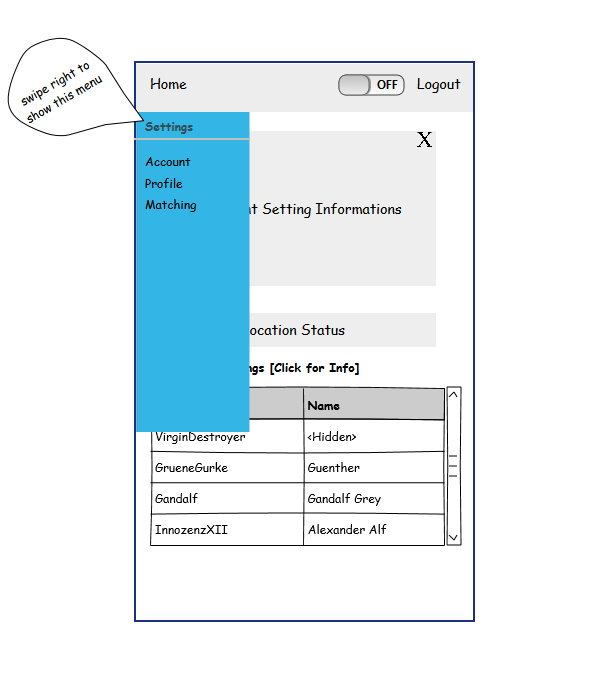
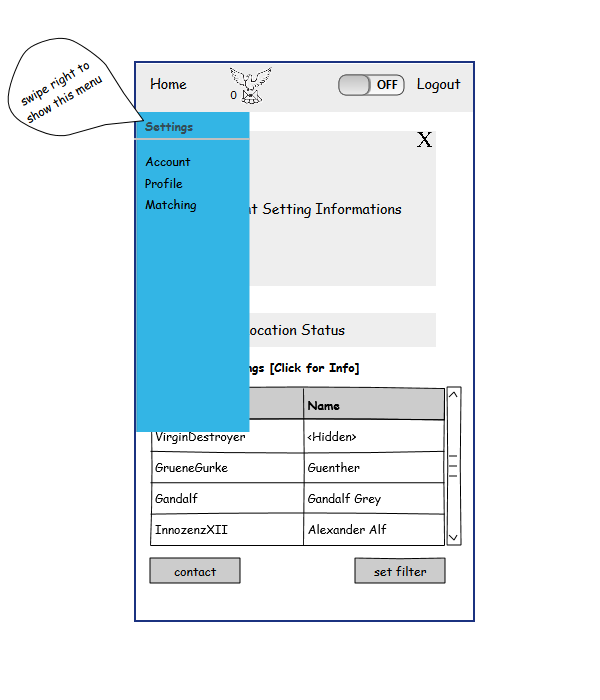
Mockup 1.1 -> 1.2

Changed region(s): [[0.57, 0.78, 0.75, 0.84], [0.24, 0.78, 0.42, 0.84], [0.39, 0.09, 0.45, 0.15]]

diff --git a/Mockup/MasterMoritz_Entwurf/index.html b/Mockup/MasterMoritz_Entwurf/index.html
@@ -1,1 +1,1 @@
-<html xmlns="http://www.w3.org/1999/xhtml"><head><meta http-equiv="Content-Type" content="text/html; charset=UTF-8" /><title>Project Poseidon</title><link rel="stylesheet" href="Resources/SampleStyle.css" /></head><body><h1 id="documentTitle">Freezer</h1><p id="documentMetadata">Version: 1.1</p><div class="Page" id="index_page"><h2>INDEX</h2><div class="ImageContainer"><img width="600" height="700" src="pages%5Cindex.png" usemap="#map_index" /></div><map name="map_index"><area shape="rect" coords="303.5,404.5,394.5,431.25" href="#register_page" title="Go to page 'REGISTER'" /><area shape="rect" coords="203.13333129882812,404.1333312988281,294.8666687011719,430.8666687011719" href="#home_page" title="Go to page 'HOME'" /></map></div><div class="Page" id="register_page"><h2>REGISTER</h2><div class="ImageContainer"><img width="600" height="700" src="pages%5Cregister.png" usemap="#map_register" /></div><map name="map_register"><area shape="rect" coords="150,73,187.39999389648438,94" href="#index_page" title="Go to page 'INDEX'" /><area shape="rect" coords="258.1333312988281,328.1333312988281,349.8666687011719,355.6166687011719" href="#index_page" title="Go to page 'INDEX'" /></map></div><div class="Page" id="home_page"><h2>HOME</h2><div class="ImageContainer"><img width="600" height="700" src="pages%5Chome.png" usemap="#map_home" /></div><map name="map_home"><area shape="rect" coords="354.5,557.5,445.5,583.5" href="#filterpopup_page" title="Go to page 'FilterPopup'" /><area shape="rect" coords="149.5,557.5,240.5,583.5" href="#contactrequest_page" title="Go to page 'ContactRequest'" /><area shape="rect" coords="416.683349609375,73,461.36668395996094,94" href="#index_page" title="Go to page 'INDEX'" /></map></div><div class="Page" id="userpopup_page"><h2>UserPopup</h2><div class="ImageContainer"><img width="600" height="700" src="pages%5Cuserpopup.png" usemap="#map_userpopup" /></div><map name="map_userpopup"><area shape="rect" coords="416.683349609375,73,461.36668395996094,94" href="#index_page" title="Go to page 'INDEX'" /><area shape="rect" coords="150,73,187.39999389648438,94" href="#home_page" title="Go to page 'HOME'" /></map></div><div class="Page" id="filterpopup_page"><h2>FilterPopup</h2><div class="ImageContainer"><img width="600" height="700" src="pages%5Cfilterpopup.png" usemap="#map_filterpopup" /></div><map name="map_filterpopup"><area shape="rect" coords="416.683349609375,73,461.36668395996094,94" href="#index_page" title="Go to page 'INDEX'" /><area shape="rect" coords="150,73,187.39999389648438,94" href="#home_page" title="Go to page 'HOME'" /></map></div><div class="Page" id="settings_page"><h2>SETTINGS</h2><div class="ImageContainer"><img width="600" height="700" src="pages%5Csettings.png" usemap="#map_settings" /></div><map name="map_settings"><area shape="rect" coords="144.64999389648438,195,197.06666564941406,213" href="#settingsmatching_page" title="Go to page 'SETTINGS_Matching'" /><area shape="rect" coords="144.5833282470703,174,183.43333435058594,192" href="#settingsprofile_page" title="Go to page 'SETTINGS_Profile'" /><area shape="rect" coords="144.75,152,191.26666259765625,170" href="#settingsaccount_page" title="Go to page 'SETTINGS_Account'" /><area shape="rect" coords="416.683349609375,73,461.36668395996094,94" href="#index_page" title="Go to page 'INDEX'" /><area shape="rect" coords="150,73,187.39999389648438,94" href="#home_page" title="Go to page 'HOME'" /></map></div><div class="Page" id="settingsaccount_page"><h2>SETTINGS_Account</h2><div class="ImageContainer"><img width="600" height="700" src="pages%5Csettingsaccount.png" usemap="#map_settingsaccount" /></div><map name="map_settingsaccount"><area shape="rect" coords="148.5,275.75,239.5,303.25" href="#settings_page" title="Go to page 'SETTINGS'" /><area shape="rect" coords="416.683349609375,73,461.36668395996094,94" href="#index_page" title="Go to page 'INDEX'" /><area shape="rect" coords="150,73,187.39999389648438,94" href="#home_page" title="Go to page 'HOME'" /></map></div><div class="Page" id="settingsprofile_page"><h2>SETTINGS_Profile</h2><div class="ImageContainer"><img width="600" height="700" src="pages%5Csettingsprofile.png" usemap="#map_settingsprofile" /></div><map name="map_settingsprofile"><area shape="rect" coords="149.5,570.75,240.5,598.25" href="#settings_page" title="Go to page 'SETTINGS'" /><area shape="rect" coords="416.683349609375,73,461.36668395996094,94" href="#index_page" title="Go to page 'INDEX'" /><area shape="rect" coords="150,73,187.39999389648438,94" href="#home_page" title="Go to page 'HOME'" /></map></div><div class="Page" id="settingsmatching_page"><h2>SETTINGS_Matching</h2><div class="ImageContainer"><img width="600" height="700" src="pages%5Csettingsmatching.png" usemap="#map_settingsmatching" /></div><map name="map_settingsmatching"><area shape="rect" coords="145.5,578.75,236.5,606.25" href="#settings_page" title="Go to page 'SETTINGS'" /><area shape="rect" coords="416.683349609375,73,461.36668395996094,94" href="#index_page" title="Go to page 'INDEX'" /><area shape="rect" coords="150,73,187.39999389648438,94" href="#home_page" title="Go to page 'HOME'" /></map></div><div class="Page" id="contactrequest_page"><h2>ContactRequest</h2><div class="ImageContainer"><img width="600" height="700" src="pages%5Ccontactrequest.png" usemap="#map_contactrequest" /></div><map name="map_contactrequest"><area shape="rect" coords="416.683349609375,73,461.36668395996094,94" href="#index_page" title="Go to page 'INDEX'" /><area shape="rect" coords="150,73,187.39999389648438,94" href="#home_page" title="Go to page 'HOME'" /></map></div></body></html>
+<html xmlns="http://www.w3.org/1999/xhtml"><head><meta http-equiv="Content-Type" content="text/html; charset=UTF-8" /><title>Freezer Mockup.ep</title><link rel="stylesheet" href="Resources/SampleStyle.css" /></head><body><h1 id="documentTitle">Freezer Mockup</h1><p id="documentMetadata">Version: 1.2</p><div class="Page" id="index_page"><h2>INDEX</h2><div class="ImageContainer"><img width="600" height="700" src="pages%5Cindex.png" usemap="#map_index" /></div><map name="map_index"><area shape="rect" coords="303.5,404.5,394.5,431.25" href="#register_page" title="Go to page 'REGISTER'" /><area shape="rect" coords="203.13333129882812,404.1333312988281,294.8666687011719,430.8666687011719" href="#home_page" title="Go to page 'HOME'" /></map></div><div class="Page" id="register_page"><h2>REGISTER</h2><div class="ImageContainer"><img width="600" height="700" src="pages%5Cregister.png" usemap="#map_register" /></div><map name="map_register"><area shape="rect" coords="150,73,187.39999389648438,94" href="#index_page" title="Go to page 'INDEX'" /><area shape="rect" coords="258.1333312988281,328.1333312988281,349.8666687011719,355.6166687011719" href="#index_page" title="Go to page 'INDEX'" /></map></div><div class="Page" id="home_page"><h2>HOME</h2><div class="ImageContainer"><img width="600" height="700" src="pages%5Chome.png" usemap="#map_home" /></div><map name="map_home"><area shape="rect" coords="354.5,557.5,445.5,583.5" href="#filterpopup_page" title="Go to page 'FilterPopup'" /><area shape="rect" coords="149.5,557.5,240.5,583.5" href="#contactrequest_page" title="Go to page 'ContactRequest'" /><area shape="rect" coords="416.683349609375,73,461.36668395996094,94" href="#index_page" title="Go to page 'INDEX'" /></map></div><div class="Page" id="userpopup_page"><h2>UserPopup</h2><div class="ImageContainer"><img width="600" height="700" src="pages%5Cuserpopup.png" usemap="#map_userpopup" /></div><map name="map_userpopup"><area shape="rect" coords="416.683349609375,73,461.36668395996094,94" href="#index_page" title="Go to page 'INDEX'" /><area shape="rect" coords="150,73,187.39999389648438,94" href="#home_page" title="Go to page 'HOME'" /></map></div><div class="Page" id="filterpopup_page"><h2>FilterPopup</h2><div class="ImageContainer"><img width="600" height="700" src="pages%5Cfilterpopup.png" usemap="#map_filterpopup" /></div><map name="map_filterpopup"><area shape="rect" coords="416.683349609375,73,461.36668395996094,94" href="#index_page" title="Go to page 'INDEX'" /><area shape="rect" coords="150,73,187.39999389648438,94" href="#home_page" title="Go to page 'HOME'" /></map></div><div class="Page" id="settings_page"><h2>SETTINGS</h2><div class="ImageContainer"><img width="600" height="700" src="pages%5Csettings.png" usemap="#map_settings" /></div><map name="map_settings"><area shape="rect" coords="354.5,557.5,445.5,583.5" href="#filterpopup_page" title="Go to page 'FilterPopup'" /><area shape="rect" coords="149.5,557.5,240.5,583.5" href="#contactrequest_page" title="Go to page 'ContactRequest'" /><area shape="rect" coords="144.64999389648438,195,197.06666564941406,213" href="#settingsmatching_page" title="Go to page 'SETTINGS_Matching'" /><area shape="rect" coords="144.5833282470703,174,183.43333435058594,192" href="#settingsprofile_page" title="Go to page 'SETTINGS_Profile'" /><area shape="rect" coords="144.75,152,191.26666259765625,170" href="#settingsaccount_page" title="Go to page 'SETTINGS_Account'" /><area shape="rect" coords="416.683349609375,73,461.36668395996094,94" href="#index_page" title="Go to page 'INDEX'" /><area shape="rect" coords="150,73,187.39999389648438,94" href="#home_page" title="Go to page 'HOME'" /></map></div><div class="Page" id="settingsaccount_page"><h2>SETTINGS_Account</h2><div class="ImageContainer"><img width="600" height="700" src="pages%5Csettingsaccount.png" usemap="#map_settingsaccount" /></div><map name="map_settingsaccount"><area shape="rect" coords="148.5,275.75,239.5,303.25" href="#settings_page" title="Go to page 'SETTINGS'" /><area shape="rect" coords="416.683349609375,73,461.36668395996094,94" href="#index_page" title="Go to page 'INDEX'" /><area shape="rect" coords="150,73,187.39999389648438,94" href="#home_page" title="Go to page 'HOME'" /></map></div><div class="Page" id="settingsprofile_page"><h2>SETTINGS_Profile</h2><div class="ImageContainer"><img width="600" height="700" src="pages%5Csettingsprofile.png" usemap="#map_settingsprofile" /></div><map name="map_settingsprofile"><area shape="rect" coords="149.5,570.75,240.5,598.25" href="#settings_page" title="Go to page 'SETTINGS'" /><area shape="rect" coords="416.683349609375,73,461.36668395996094,94" href="#index_page" title="Go to page 'INDEX'" /><area shape="rect" coords="150,73,187.39999389648438,94" href="#home_page" title="Go to page 'HOME'" /></map></div><div class="Page" id="settingsmatching_page"><h2>SETTINGS_Matching</h2><div class="ImageContainer"><img width="600" height="700" src="pages%5Csettingsmatching.png" usemap="#map_settingsmatching" /></div><map name="map_settingsmatching"><area shape="rect" coords="145.5,578.75,236.5,606.25" href="#settings_page" title="Go to page 'SETTINGS'" /><area shape="rect" coords="416.683349609375,73,461.36668395996094,94" href="#index_page" title="Go to page 'INDEX'" /><area shape="rect" coords="150,73,187.39999389648438,94" href="#home_page" title="Go to page 'HOME'" /></map></div><div class="Page" id="contactrequest_page"><h2>ContactRequest</h2><div class="ImageContainer"><img width="600" height="700" src="pages%5Ccontactrequest.png" usemap="#map_contactrequest" /></div><map name="map_contactrequest"><area shape="rect" coords="416.683349609375,73,461.36668395996094,94" href="#index_page" title="Go to page 'INDEX'" /><area shape="rect" coords="150,73,187.39999389648438,94" href="#home_page" title="Go to page 'HOME'" /></map></div></body></html>
